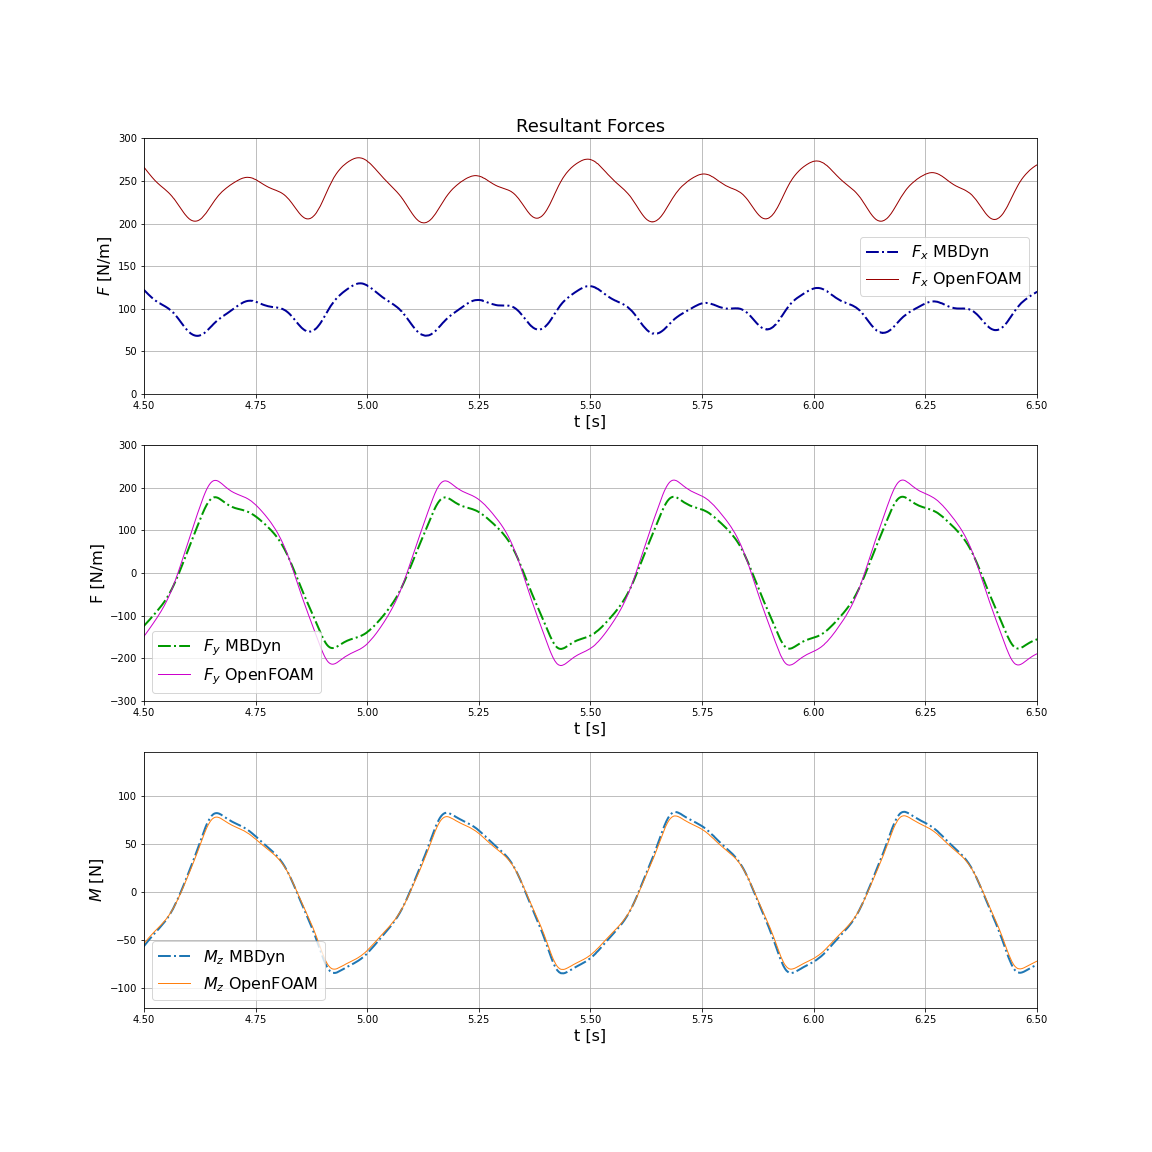
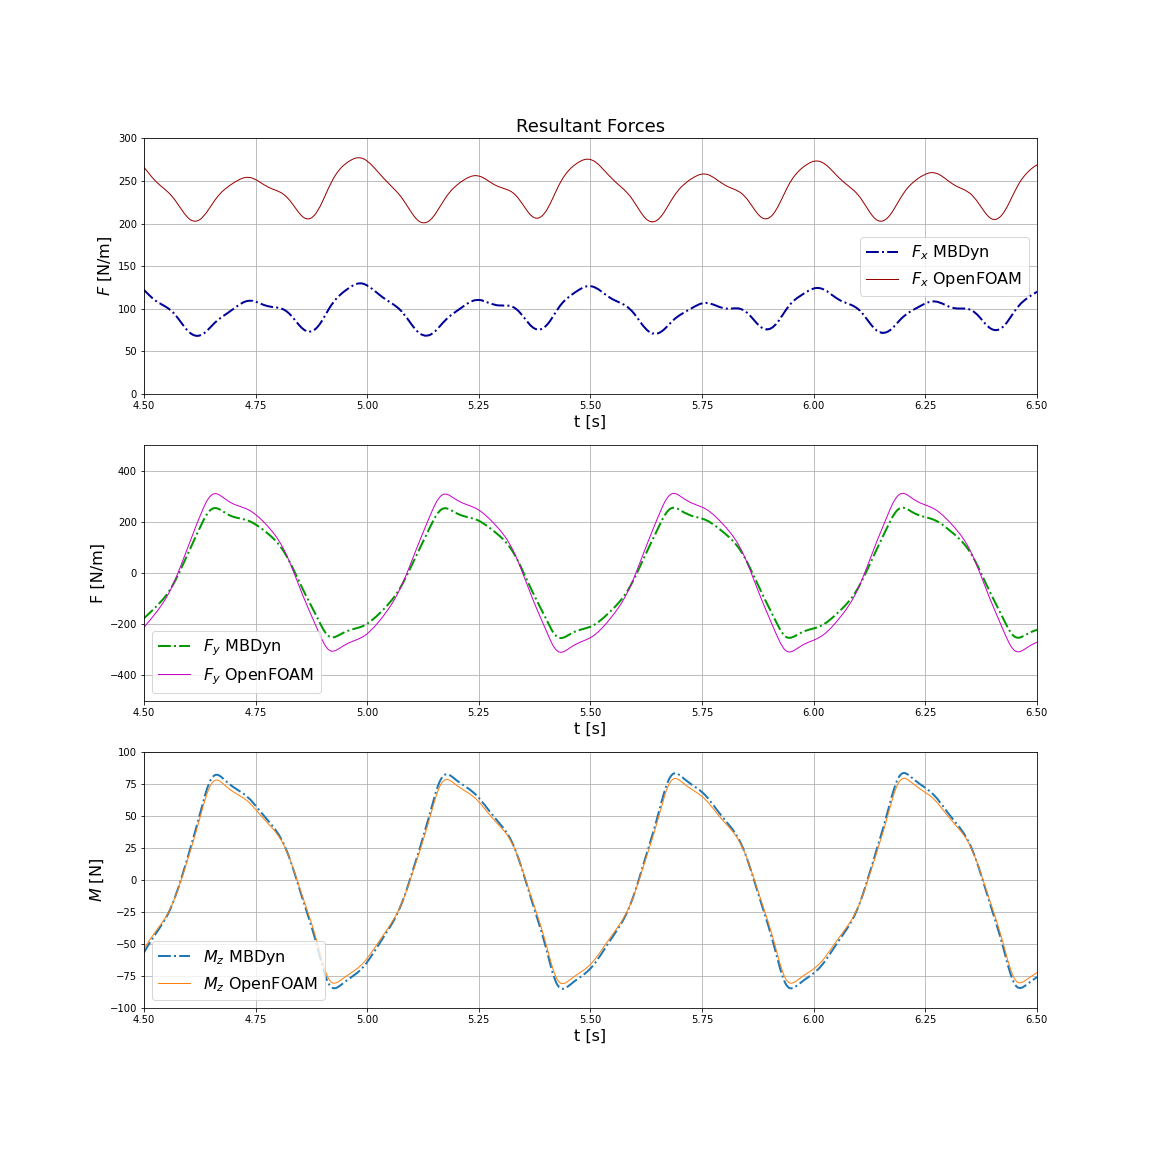
fsi2 corrected graphs added comments

diff --git a/chapters/06_Testcases.tex b/chapters/06_Testcases.tex
@@ -1097,7 +1097,7 @@ The problem considered is characterized by the adimensional parameters given in 
 
 \begin{table}[!htb]
 	\begin{center}
-		\begin{tabular}{ l c | r } 
+		\begin{tabular}{ l c | c } 
 			parameter & & value   \\ 
 			\hline
 			mass number  & $M$ & $0.1$     \\
@@ -1174,7 +1174,7 @@ Forces are measured on the whole structure on the fluid side, while are measured
 \end{figure}
 
 
-\hl{Each time step converges with an average of 14.5 iterations, which again confirms the trend of more coupling iterations as the mass number increases.}
+Each time step converges with an average of 14.5 iterations, which again confirms the trend of more coupling iterations as the mass number increases.
 
 \begin{figure}[htbp!]
 	\centering
@@ -1214,7 +1214,8 @@ The comparison of the results can be done in terms of tip displacement and in te
 			Turek et al. (2010) \cite{turek2010numerical} & $-14.85\pm12.70$ & $3.86$ & $1.30\pm81.7$ & $1.93$ \\
 			Gjertsen \cite{gjertsen2017development} & $-14.83\pm13.11$ & & $1.24\pm81.6$ & \\
 			Degroote \cite{degroote2009interface}  & $-14.07\pm12.37$ & $3.7$ & $1.18\pm76.5$ & $1.9$ \\
-			Present study & $-14.95\pm9.8$ & $3.87$ & $2.78\pm85.4$ & $1.93$ \\ 
+			\hline
+			Present study & $-14.95\pm9.85$ & $3.87$ & $2.78\pm85.39$ & $1.93$ \\ 
 		\end{tabular}
 	\end{center}
 	\caption{FSI2: comparison of results (displacements)}
@@ -1231,7 +1232,8 @@ The comparison of the results can be done in terms of tip displacement and in te
 			Turek et al. (2010) \cite{turek2010numerical} & $215.06\pm77.63$ & $3.86$ & $0.61\pm237.8$ & $1.93$\\   
 			Gjertsen \cite{gjertsen2017development} & $161.50\pm73.75$ & & $0.88\pm234.2$ & \\
 			Degroote \cite{degroote2009interface}  & $217.52\pm84.65$ & $3.7$ & $-0.74\pm267.6$ & $1.9$ \\
-			Present study & $239.13\pm31.9$ & $3.87$ & $2.4\pm217.2$ & $1.93$ \\
+			\hline
+			Present study & $239.13\pm31.93$ & $3.87$ & $3.43\pm308.57$ & $1.93$ \\
 		\end{tabular}
 	\end{center}
 	\caption{FSI2: comparison of results (forces)}
@@ -1243,12 +1245,22 @@ The study \cite{turek2010numerical} gives 7 different methods and results for FS
 
 For the FSI2 test case only the results from the initial Hron and Turek paper \cite{turek2006proposal} and a few others are available.
 
-\hl{ As previously stated, the results for the FSI3 case differ by in
-some cases $50\%$ for Drag and Lift. With this in mind, in the FSI2 case I
-am off by less then 10% for displacement in x and y direction and for Lift.
-While Drag is off by about 50%. It is reasonable to assume that since there
-were such differences in the results for different implementations for the FSI3
-results, we would expect similar behavior in the FSI2 results.}
+Comparing the results, with previous studies (Table \ref{table:FSI2-results-d}), mean displacement in x direction is very close to all other results (mainly due to mean pressure applied to the tip face), while mean oscillation is lower of about $3mm$. The displacement in y direction is about $4mm$ higher. It looks like the MBDyn structure is a bit more flexible (as also seen in Section \ref{sec:cx-mbd} for the vertical flap). This also reflects the fact that average drag and lift are higher.
+
+The greatest difference can be seen in the oscillation of drag, which is much smaller than other studies. The data collected during the simulation allow to separate the contribution of the cylinder from the one of the flap (see first graph of Figure \ref{fig:FSI2_force}). The cylinder has an average drag of $140$ \si{N.m^{-1}} with a standard deviation of $\approx7$ \si{N.m^{-1}}. Considering that the average $C_D$ of a cylinder at $Re=100$ is around $1.35$ \cite{qin2017direct}, and an average fluid velocity around the cylinder of about $1.4$ \si{m.s^{-1}}, the contribution is as expected. The contribution of the flap seems to be much lower than expected.
+
+As previously stated, the results for the FSI3 case differ by in some cases $50\%$ for Drag and Lift. With this in mind, in the FSI2 case it is reasonable to assume that since there were such differences in the results for different implementations for the FSI3 results, we would expect similar behavior in the FSI2 results.
+
+
+%@article{qin2017direct,
+%  title={Direct numerical simulations of gas--solid--liquid interactions in dilute fluids},
+%  author={Qin, Zhipeng and Suckale, Jenny},
+%  journal={International Journal of Multiphase Flow},
+%  volume={96},
+%  pages={34--47},
+%  year={2017},
+%  publisher={Elsevier}
+%}
 
 
 \newpage
@@ -1275,8 +1287,6 @@ Omitting for a while the test case named FSI1 as it is not oscillating, the othe
 	\caption{FSI2-FSI3: different parameters}
 	\label{table:FSI3-diff}
 \end{table}
-
-The 
 
 
 \begin{table}[!htb]
